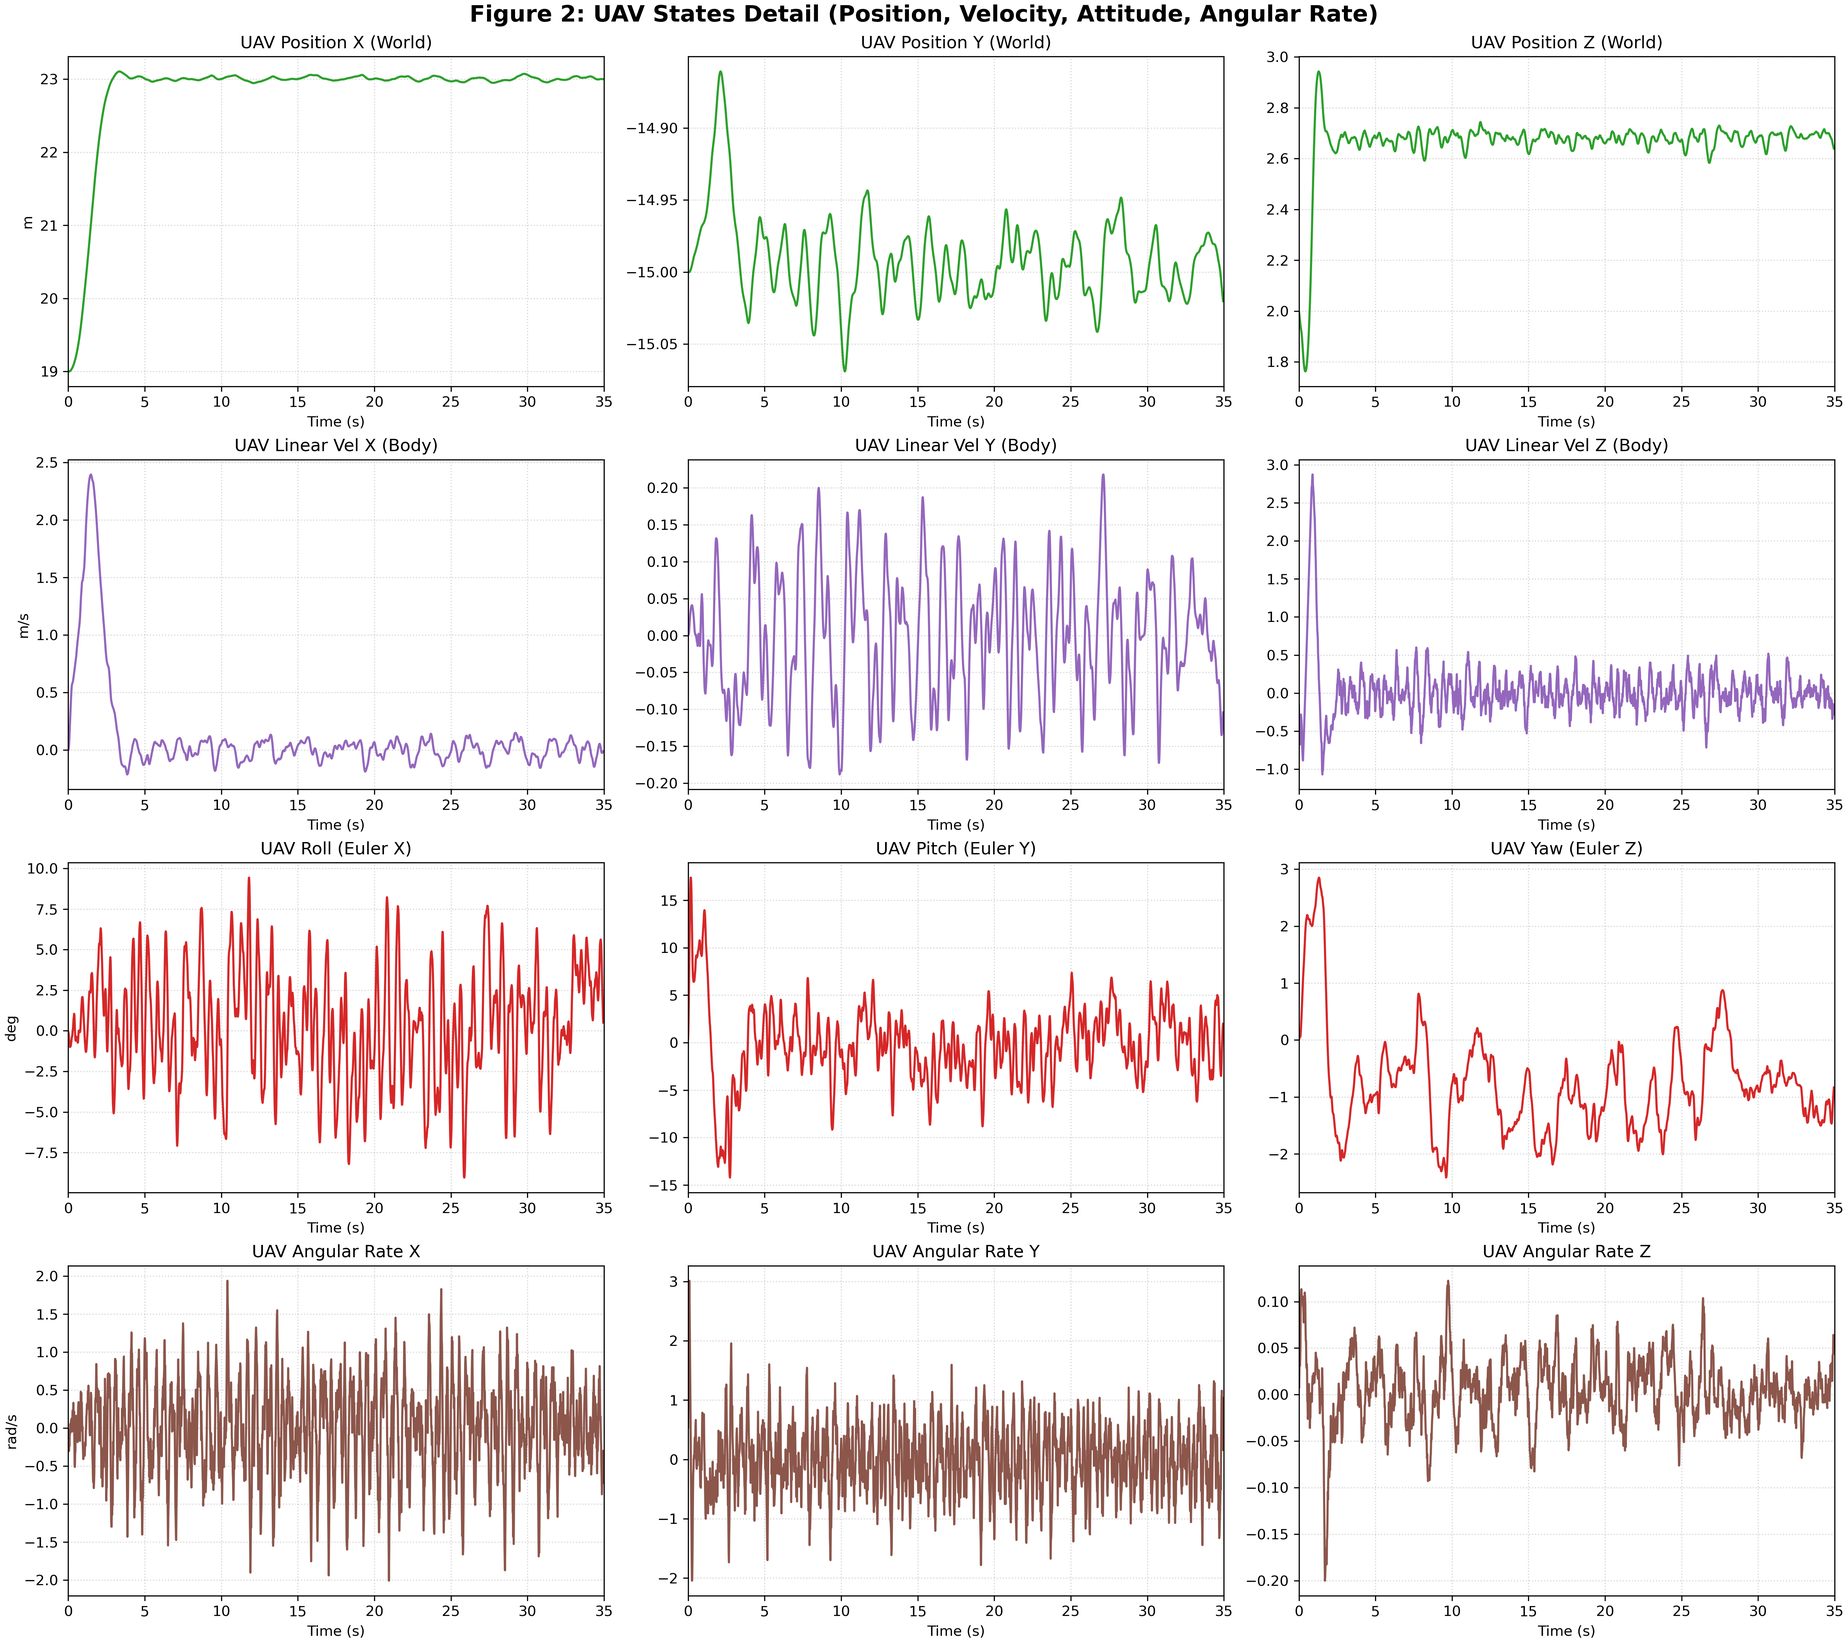
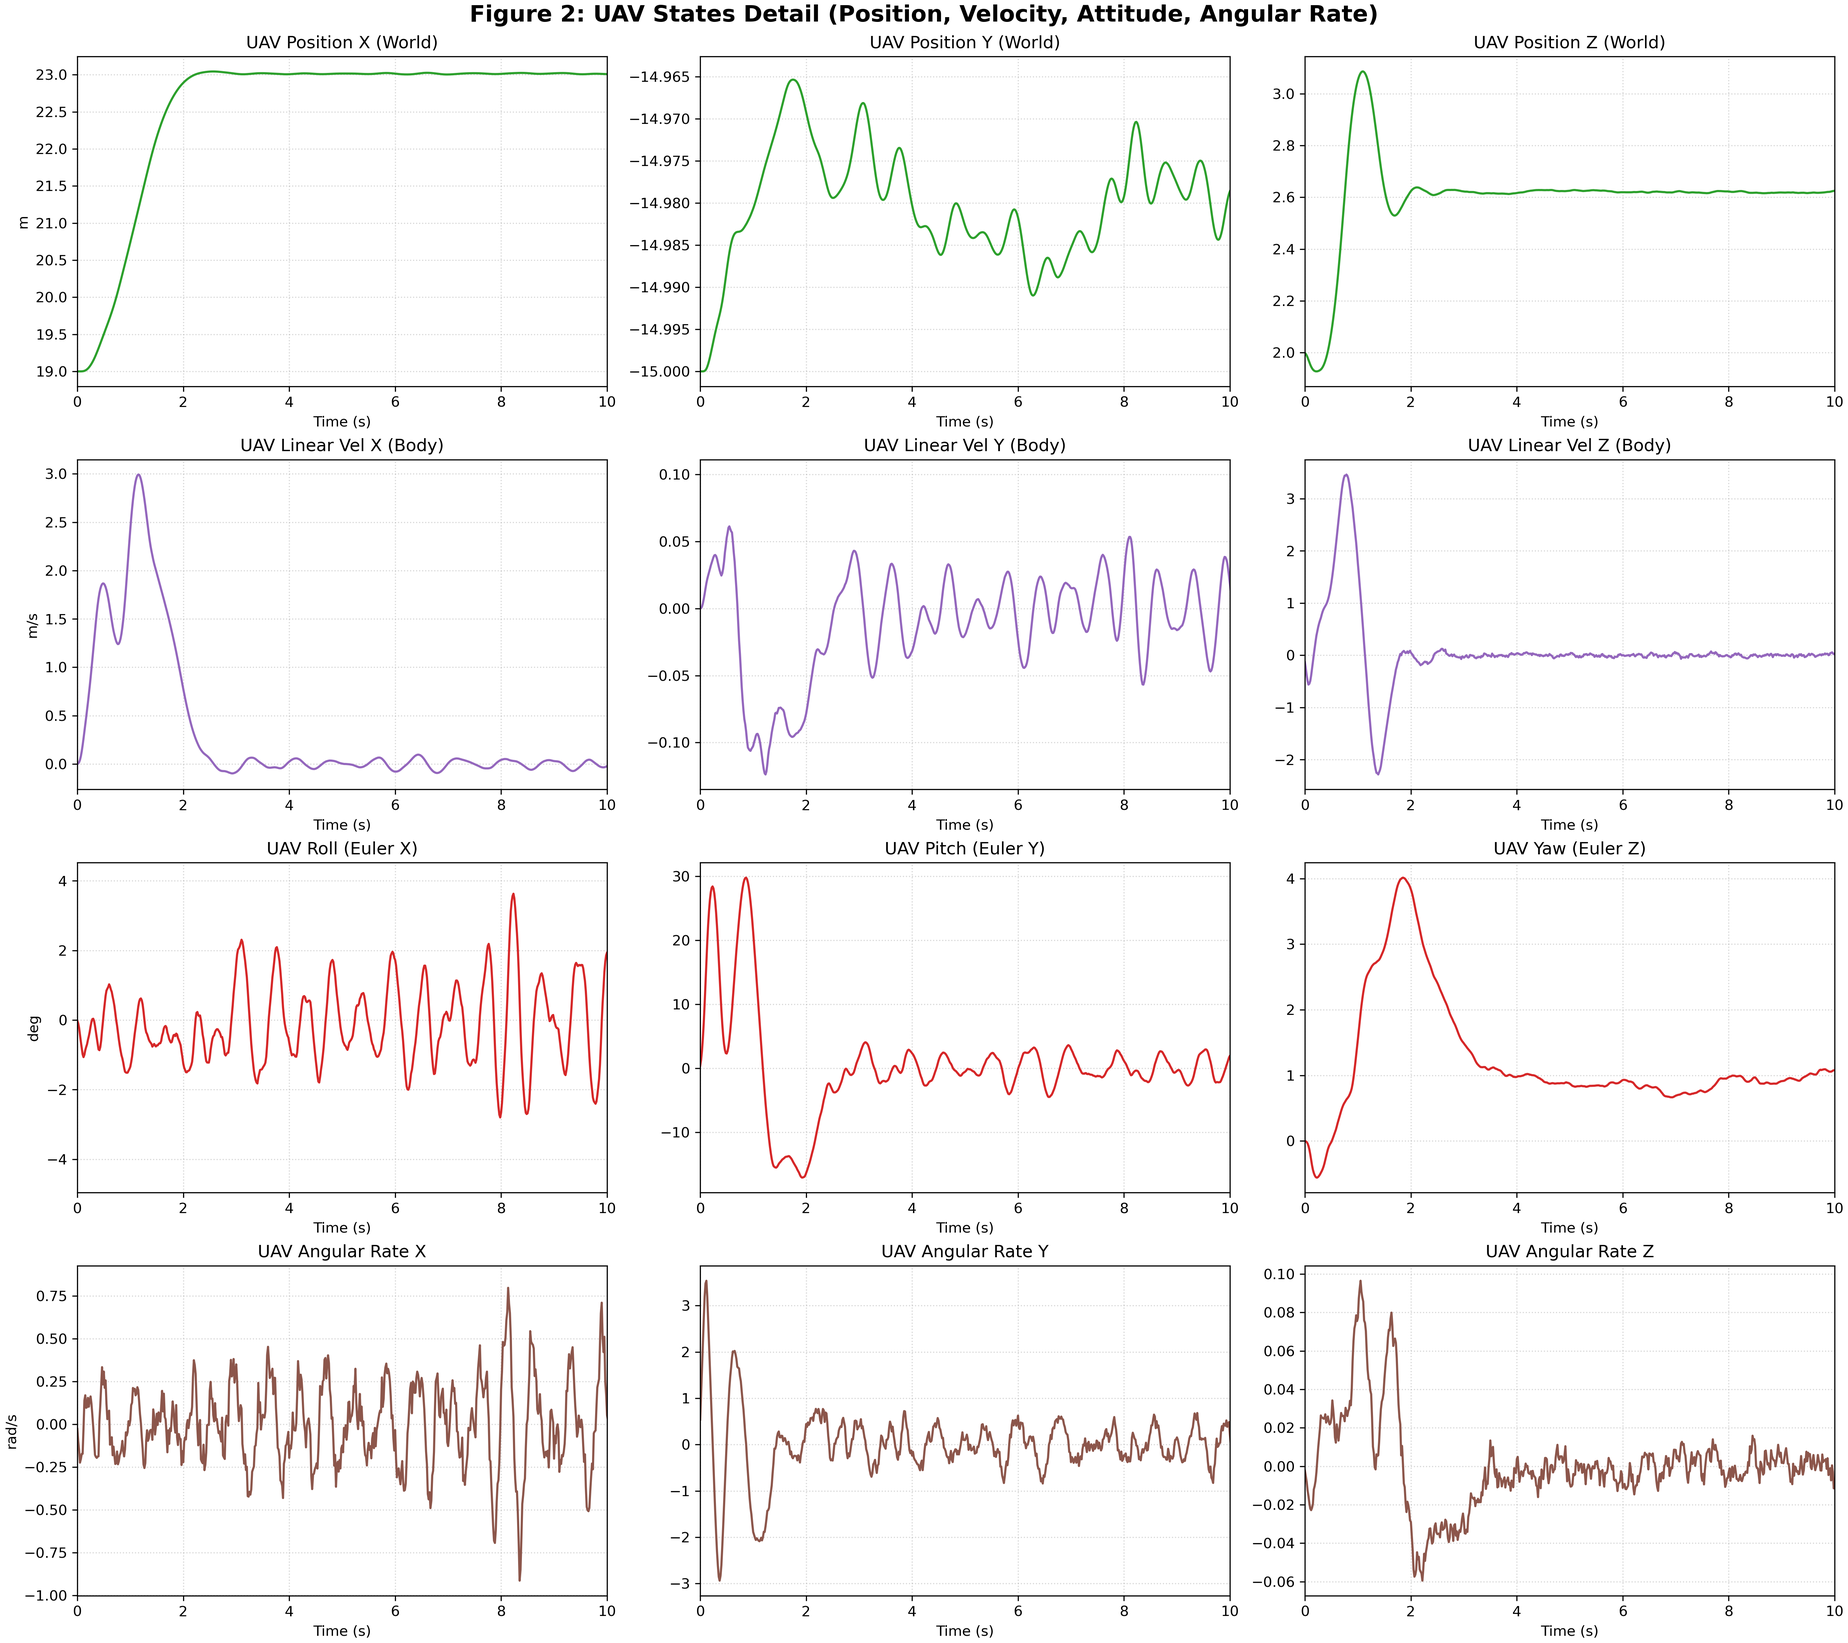
5.2:Sim2Real_obs和reward摆动定义对齐_放宽摆动容忍度sigma_tilt_degsigma_swing_deg_s__加大action惩罚_加上smoothreward

diff --git a/source/uav_payload_lab/uav_payload_lab/tasks/direct/uav_payload_meta/meta_uav_env.py b/source/uav_payload_lab/uav_payload_lab/tasks/direct/uav_payload_meta/meta_uav_env.py
@@ -33,6 +33,7 @@ class UavPayloadMetaEnv(DirectRLEnv):
         self._thrust = torch.zeros(self.num_envs, 1, 3, device=self.device)
         self._moment = torch.zeros(self.num_envs, 1, 3, device=self.device)
         self._raw_actions = torch.zeros_like(self._actions)
+        self._prev_actions = torch.zeros_like(self._actions)
         # Goal position
         self._desired_pos_w = torch.zeros(self.num_envs, 3, device=self.device)
         # ★ 任务：起点 / 终点（相对 env_origin 的偏移）
@@ -389,124 +390,143 @@ class UavPayloadMetaEnv(DirectRLEnv):
 
     def _get_rewards(self) -> torch.Tensor:
         """
-        混合奖励函数：线性距离引导 + 高斯精度锁定 + 消摆惩罚
+        混合奖励函数：位置 + 摆角 + 摆速 + 动作幅值 + 动作连续性 + 自旋惩罚
+        与 _get_observations() 使用同源几何定义：
+        - UAV 位置: body_pos_w[:, self._body_id[0], :]
+        - payload 位置: body_pos_w[:, self._payload_id, :]
+        - 摆角: theta_x/theta_y
+        - 摆速: self._tilt_vel_deg
         """
-        # === 1. 数据准备 ===
-        p_uav_w = self._robot.data.root_pos_w                          
-        p_load_w = self._robot.data.body_pos_w[:, self._payload_id, :] 
-        goal_payload_w = self._desired_pos_w                           
 
-        # 距离误差 (m)
-        e_load = goal_payload_w - p_load_w                             
-        dist = torch.linalg.norm(e_load, dim=1)                        
+        # === 1) 基础数据 ===
+        body_pos_w = self._robot.data.body_pos_w
+        p_uav_w = body_pos_w[:, self._body_id[0], :]      # 与 obs 对齐
+        p_load_w = body_pos_w[:, self._payload_id, :]     # 与 obs 对齐
+        goal_payload_w = self._desired_pos_w
 
-        # === 2. 摆角与角速度计算 (使用更精确的几何方法) ===
-        # payload 相对 UAV 的向量
-        r = p_load_w - p_uav_w                                         
-        dx, dy, dz = r[:, 0], r[:, 1], r[:, 2]
-        
-        # [改进] 使用 atan2 计算真实的合摆角，比 sqrt(tx^2+ty^2) 更准
-        # den 取 -dz 是因为 z 轴向下为负，我们要算的是偏离垂直向下的角度
-        den = torch.clamp(-dz, min=1e-3)
-        theta_rad = torch.atan2(torch.sqrt(dx*dx + dy*dy), den)
+        # payload 到目标点误差 (m)
+        e_load = goal_payload_w - p_load_w
+        dist = torch.linalg.norm(e_load, dim=1)
+
+        # === 2) 摆角 / 摆速（与 obs 完全同源）===
+        r_load_uav = p_uav_w - p_load_w
+        L = self._rope_lengths.clamp(min=1e-3)
+
+        theta_x = torch.asin((r_load_uav[:, 0] / L).clamp(-1.0, 1.0))
+        theta_y = torch.asin((r_load_uav[:, 1] / L).clamp(-1.0, 1.0))
+
+        # 合摆角：rad / deg
+        theta_rad = torch.sqrt(theta_x * theta_x + theta_y * theta_y)
         theta_deg = theta_rad * (180.0 / math.pi)
 
-        # 摆动角速度 (deg/s) - 直接使用观测中计算好的差分速度
+        # 合摆速：clean 的 deg/s（来自 clean 摆角差分）
         wx_deg = self._tilt_vel_deg[:, 0]
         wy_deg = self._tilt_vel_deg[:, 1]
-        swing_deg_s = torch.sqrt(wx_deg * wx_deg + wy_deg * wy_deg)    
-        # 归一化摆能量 E_hat（小角度线性摆近似，单位：rad^2/s^2）
-        # E_hat = 0.5*(||theta_dot||^2 + (g/L)*||theta||^2)，用于诊断/画图，不进入 reward
+        swing_deg_s = torch.sqrt(wx_deg * wx_deg + wy_deg * wy_deg)
+
+        # 归一化摆能量诊断量（不进 reward，只做 logging）
+        # E_hat = 0.5 * (||theta_dot||^2 + (g/L) * ||theta||^2)
         g = 9.81
-        L = torch.clamp(self._rope_lengths, min=1e-3)
         theta_dot_rad_s = swing_deg_s * (math.pi / 180.0)
-        E_hat = 0.5 * (theta_dot_rad_s * theta_dot_rad_s + (g / torch.clamp(L, min=1e-6)) * (theta_rad * theta_rad))        # 记录时间平均：episode_sums 累加的是 ∑ E_hat * dt，reset 时再除以 T
+        E_hat = 0.5 * (
+            theta_dot_rad_s * theta_dot_rad_s
+            + (g / torch.clamp(L, min=1e-6)) * (theta_rad * theta_rad)
+        )
         E_hat_mean_dt = E_hat * self.step_dt
-        # === 3. 计算各项奖励组件 ===
-        
-        # [A] 位置奖励 (r_pos)
-        # 逻辑：基础生存分(4.0) - 距离惩罚(dist) + 终点高斯奖励(gauss)
-        # 这样设计保证了：
-        # 1. 只要在 4m 内，分数 > 0，防止自杀 (4.0 - dist)
-        # 2. 远处有梯度 (dist 越小分越高)
-        # 3. 近处有诱惑 (进入 sigma 范围后由高斯项提供高分)
+
+        # === 3) 位置奖励 ===
         r_alive = 4.0
         r_dist_dense = -1.0 * dist
-        r_dist_gauss = torch.exp(-0.5 * (dist / self.cfg.sigma_pos)**2)
-        
-        # 组合位置奖励
-        r_pos_val = float(self.cfg.pos_weight) * (r_alive + r_dist_dense + 2.0 * r_dist_gauss)
+        r_dist_gauss = torch.exp(-0.5 * (dist / self.cfg.sigma_pos) ** 2)
 
-        # [B] 摆角惩罚 (r_tilt)
-        # 摆角越大扣分越多，平方项让大角度惩罚更重
-        r_tilt_val = -1.0 * float(self.cfg.tilt_weight) * (theta_deg / self.cfg.sigma_tilt_deg)**2
+        r_pos_val = float(self.cfg.pos_weight) * (
+            r_alive + r_dist_dense + 2.0 * r_dist_gauss
+        )
 
-        # [C] 摆速惩罚 (r_swing)
-        # 摆动越快扣分越多 (注意权重系数我给小了一点，避免初期为了不摆动而不敢动)
-        r_swing_val = -0.1 * float(self.cfg.tilt_weight) * (swing_deg_s / self.cfg.sigma_swing_deg_s)**2
+        # === 4) 摆角 / 摆速惩罚 ===
+        r_tilt_val = -1.0 * float(self.cfg.tilt_weight) * (
+            theta_deg / self.cfg.sigma_tilt_deg
+        ) ** 2
 
-        # [D] 动作平滑惩罚 (r_action) - 新增项，不算在 r_pos 里，算额外惩罚
-        # 防止力矩控制时电机高频震荡
-        r_action_val = - self.cfg.action_l2_penalty_scale * torch.sum(torch.square(self._actions), dim=1)
+        r_swing_val = -0.1 * float(self.cfg.tilt_weight) * (
+            swing_deg_s / self.cfg.sigma_swing_deg_s
+        ) ** 2
 
-        # [E] 死亡惩罚 (death_penalty)
+        # === 5) 动作惩罚 ===
+        # 5.1 动作幅值惩罚（已有）
+        r_action_l2 = -float(self.cfg.action_l2_penalty_scale) * (
+            self._raw_actions ** 2
+        ).sum(dim=1)
+
+        # 5.2 [新增] 动作连续性惩罚（统一作用于4通道，使用执行后的clamped action）
+        delta_action = self._actions - self._prev_actions
+        r_action_smooth = -float(self.cfg.action_smooth_penalty_scale) * (
+            delta_action ** 2
+        ).sum(dim=1)
+
+        r_action_total = r_action_l2 + r_action_smooth
+
+        # === 6) 死亡惩罚 ===
         root_pos = self._robot.data.root_pos_w
         env_origins = self._terrain.env_origins.to(root_pos.device)
-        
-        # 高度判定 (0.1 ~ 6.0m)
+
         height_fail = torch.logical_or(root_pos[:, 2] < 0.1, root_pos[:, 2] > 6.0)
-        # 水平出界判定 (±6.0m)
         rel_pos = root_pos - env_origins
         out_of_box = torch.any(torch.abs(rel_pos) > 6.0, dim=1)
-        # [新增] 计算 Raw Action 越界程度 (用于 Log)
-        # 即使你不把它加到 total reward 里，算出这个值也能在 TB 里看到
+
         raw_excess = torch.relu(torch.abs(self._raw_actions) - 1.0)
         r_action_raw_val = -1.0 * torch.sum(torch.square(raw_excess), dim=1)
-        
+
         died = torch.logical_or(height_fail, out_of_box)
         death_penalty_vec = -1.0 * float(self.cfg.death_penalty) * died.float()
-        # [新增] 自旋惩罚 (Spin Penalty)
-        # self._robot.data.root_ang_vel_b[:, 2] 是机体系下的 Z 轴角速度 (Yaw Rate)
-        # 我们希望它越接近 0 越好
-        # 1. 解算 Yaw 角 (Rad)
+
+        # === 7) 自旋惩罚 ===
         quat = self._robot.data.root_quat_w
         w, x, y, z = quat[:, 0], quat[:, 1], quat[:, 2], quat[:, 3]
-        yaw_angle = torch.atan2(2 * (w * z + x * y), 1 - 2 * (y * y + z * z))
+        yaw_angle = torch.atan2(
+            2 * (w * z + x * y),
+            1 - 2 * (y * y + z * z)
+        )
         yaw_rate = self._robot.data.root_ang_vel_b[:, 2]
-        r_spin_val = -1.0 * float(self.cfg.spin_weight) * (torch.square(yaw_rate) + torch.square(yaw_angle))
-        # === [新增] 标准 Action L2 Penalty (Effort) ===
-        # 惩罚动作幅度的平方。鼓励 Agent 在不需要大机动时回归到 0 (即悬停状态)。
-        # 这就是 Omnidrones 和标准控制论文里的 "Control Cost"。
-        r_action_l2 = -self.cfg.action_l2_penalty_scale * (self._raw_actions ** 2).sum(dim=1)   
-        r_action_total = r_action_l2 #+r_action_raw_val +r_action_val
-        # === 4. 总奖励汇总 ===
-        reward = r_pos_val + r_tilt_val + r_swing_val  + death_penalty_vec + r_action_total + r_spin_val
-        # === 5. Logging (完全兼容你原来的结构) ===
-        # 这里为了保持和你 __init__ 中的 keys 一致，我把各项归类
+
+        r_spin_val = -1.0 * float(self.cfg.spin_weight) * (
+            torch.square(yaw_rate) + torch.square(yaw_angle)
+        )
+
+        # === 8) 总奖励 ===
+        reward = (
+            r_pos_val
+            + r_tilt_val
+            + r_swing_val
+            + death_penalty_vec
+            + r_action_total
+            + r_spin_val
+        )
+
+        # === 9) Logging ===
         rewards_dict = {
-            "r_pos": r_pos_val,         # 包含生存、距离、高斯
-            "r_tilt": r_tilt_val,       # 仅包含角度惩罚
+            "r_pos": r_pos_val,
+            "r_tilt": r_tilt_val,
             "r_spin": r_spin_val,
-            "r_swing": r_swing_val,     # 仅包含角速度惩罚
+            "r_swing": r_swing_val,
             "death_penalty": death_penalty_vec,
-            # [新增] 记录这两个数据
             "r_action_raw": r_action_raw_val,
             "action_raw_sum": torch.sum(torch.abs(self._raw_actions), dim=1),
-            "dist": dist,               # 纯粹的物理距离用于记录
-            "theta_deg": theta_deg,     # 纯粹的物理角度用于记录
-            "swing_deg_s": swing_deg_s, # 纯粹的物理角速度用于记录
-            "E_hat_mean": E_hat_mean_dt, # 纯粹的诊断量：E_hat 时间平均（不进 reward）
-            # 原来代码里可能有 time_penalty，现在没用上，置0即可防止报错
-            "time_penalty": torch.zeros_like(reward), 
-            "total": reward
+            "dist": dist,
+            "theta_deg": theta_deg,
+            "swing_deg_s": swing_deg_s,
+            "E_hat_mean": E_hat_mean_dt,
+            "time_penalty": torch.zeros_like(reward),
+            "total": reward,
         }
 
-        # 遍历累加，这和你原来的逻辑一模一样
         for key, value in rewards_dict.items():
-            # 确保 key 存在于 _episode_sums 中 (r_action 这种没定义的就不记了，或者加到 total 里了)
             if key in self._episode_sums:
                 self._episode_sums[key] += value
-        
+
+        # === 10) 更新 smoothness 历史动作 ===
+        self._prev_actions = self._actions.clone()
+
         return reward
 
 
@@ -618,7 +638,8 @@ class UavPayloadMetaEnv(DirectRLEnv):
             self.episode_length_buf = torch.randint_like(self.episode_length_buf, high=int(self.max_episode_length))
         
         self._actions[env_ids] = 0.0
-
+        self._prev_actions[env_ids] = 0.0
+        
     # --- 新增辅助函数 1：记录结束状态 (放 Reset 前) ---
     def _log_termination_stats(self, env_ids):
         extras = dict()

diff --git a/source/uav_payload_lab/uav_payload_lab/tasks/direct/uav_payload_meta/meta_uav_env_cfg.py b/source/uav_payload_lab/uav_payload_lab/tasks/direct/uav_payload_meta/meta_uav_env_cfg.py
@@ -144,9 +144,9 @@ class UavPayloadMetaEnvCfg(DirectRLEnvCfg):
     # ---------------------------------------------------------------------
     # Wind disturbance (optional)
     # ---------------------------------------------------------------------
-    enable_wind = True                 # 总开关：True 才启用风扰
-    wind_apply_to_uav = True            # 是否对 UAV 本体施加风扰
-    wind_apply_to_payload = True        # 是否对 payload 刚体施加风扰（你想要的默认就是 True）
+    enable_wind = False                 # 总开关：True 才启用风扰 False
+    wind_apply_to_uav = False            # 是否对 UAV 本体施加风扰
+    wind_apply_to_payload = False        # 是否对 payload 刚体施加风扰（你想要的默认就是 True）
     wind_axis = "xy"                    # "xy"：只水平风；"xyz"：允许垂直扰动（一般先别开）
 
     # 风扰用“等效加速度”建模（更稳：不同质量不会被同一牛顿力吹飞）
@@ -182,15 +182,16 @@ class UavPayloadMetaEnvCfg(DirectRLEnvCfg):
     # reward scales
     # === Reward 参数：payload 到点 + 消摆 ===
     sigma_pos = 0.2            # 位置高斯尺度（m）
-    sigma_tilt_deg = 10.0       # 摆角高斯尺度（deg） 这里本来是10,但为了风扰饱和输出而妥协为40，风扰晃动和reward冲突，agent想拉回来payload但是reward会惩罚大角度
-    sigma_swing_deg_s = 10.0   # 摆角角速度高斯尺度（deg/s）
+    sigma_tilt_deg = 20.0       # 摆角高斯尺度（deg） 这里本来是10,但为了风扰饱和输出而妥协为40，风扰晃动和reward冲突，agent想拉回来payload但是reward会惩罚大角度
+    sigma_swing_deg_s = 50.0   # 摆角角速度高斯尺度（deg/s）
     pos_weight = 0.3           # 位置主项权重
     tilt_weight = 0.15          # 摆角 / 摆速 shaping 权重
     time_penalty = 0.01         # 每秒时间惩罚系数（越大越鼓励快完成）
     death_penalty = 20       # 摔机一次性扣多少（可以先 10，觉得不够再加大）
-    action_l2_penalty_scale = 0.01
+    action_l2_penalty_scale = 0.02 #0.015有效抑制
     spin_weight = 0.15   # 【新增】自旋惩罚权重
     heading_weight = 0.5     # 【新增】航向对齐权重，用于抑制 Yaw 角度 (P控制)
+    action_smooth_penalty_scale = 0.005
     # === 任务设置（相对每个 env 的原点，ENU）===
     # UAV 起点用于reset：payload 初始在 (0.5, 1.0, 0.4)，绳长 0.8 ⇒ UAV z ≈ 1.2
     #斜飞start_pos_w = (0.5, 1.0, 1.2)

diff --git a/source/uav_payload_lab/uav_payload_lab/tasks/direct/uav_payload_lab/plot/IsaaclabPlot12.5.py b/source/uav_payload_lab/uav_payload_lab/tasks/direct/uav_payload_lab/plot/IsaaclabPlot12.5.py
@@ -8,9 +8,9 @@ import math
 # [修改] 默认读取当前目录下的 payload_data.csv (根据你的实际文件名修改)
 
 # === Analysis window (seconds) ===
-TIME_WINDOW_S = 35   # set None to disable cropping
+TIME_WINDOW_S = 10   # set None to disable cropping
 
-simulation_data_path = "/home/shenji/uav_payload_lab/uav_payload_lab/logs/rsl_rl/Encoder_DataCollectionMLW/2026-03-12_12-59-53/payload_data.csv" 
+simulation_data_path = "/home/shenji/uav_payload_lab/uav_payload_lab/logs/rsl_rl/Encoder_DataCollectionMLW/2026-03-16_23-25-28/payload_data.csv" 
 paper_data_path = "/home/shenji/uav_payload_lab/uav_payload_lab/source/uav_payload_lab/uav_payload_lab/tasks/direct/uav_payload_lab/plot/普通控制器vs.heanhua.csv" 
 
 # 坐标系校正 (World -> Task)
